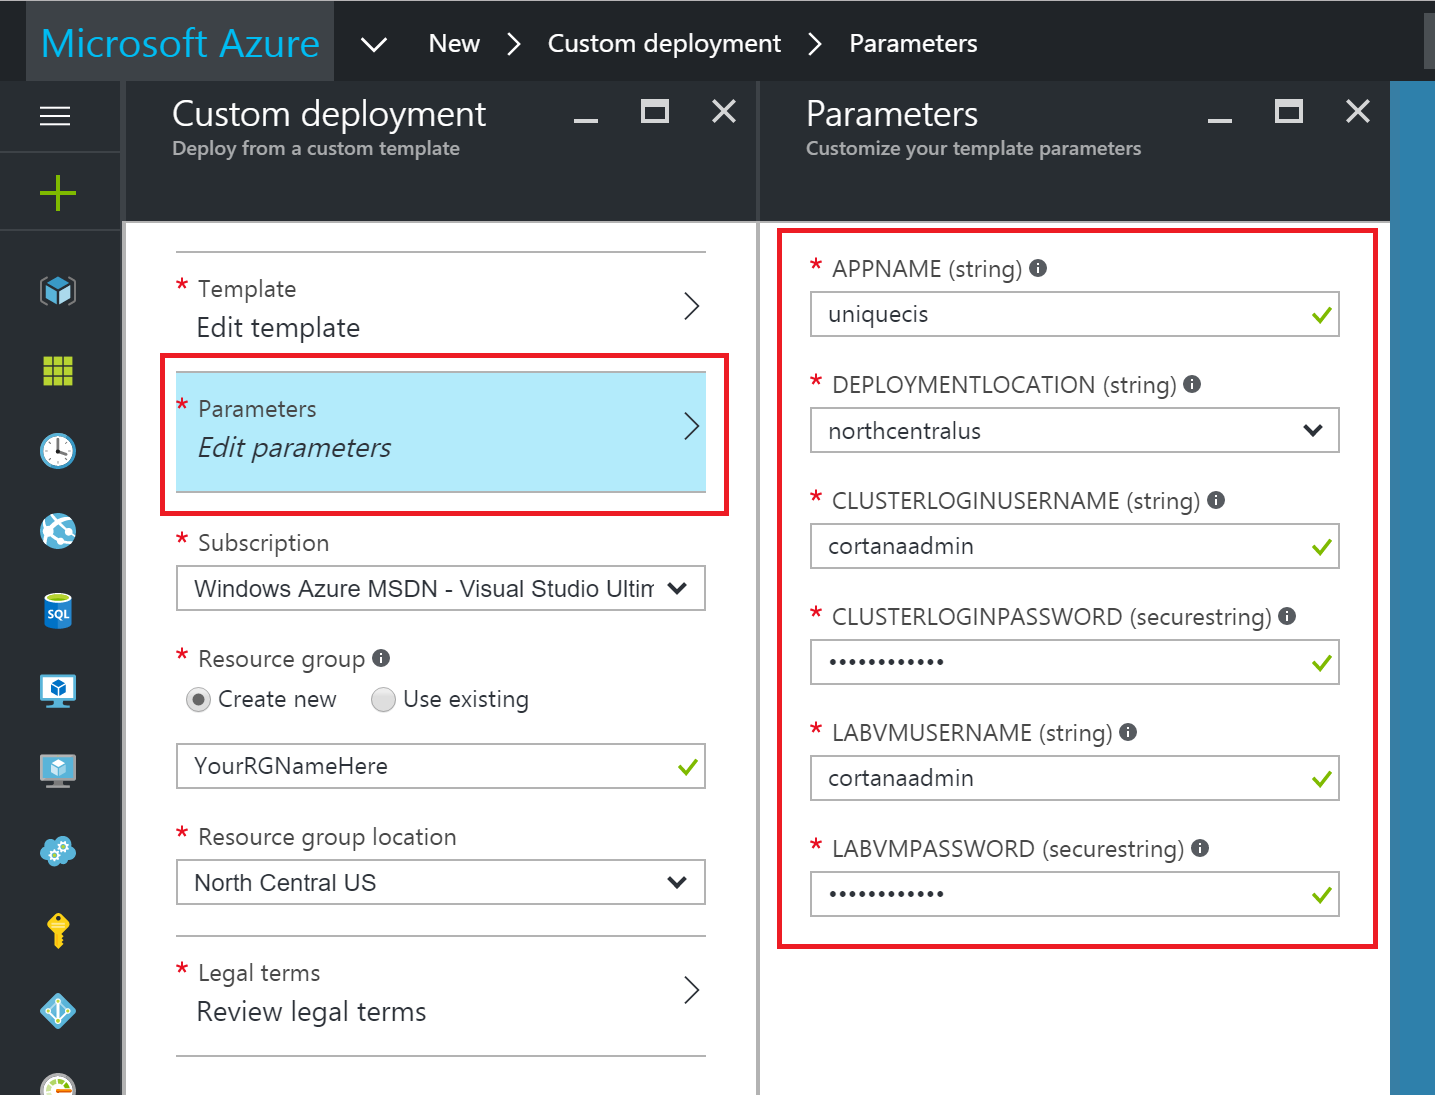
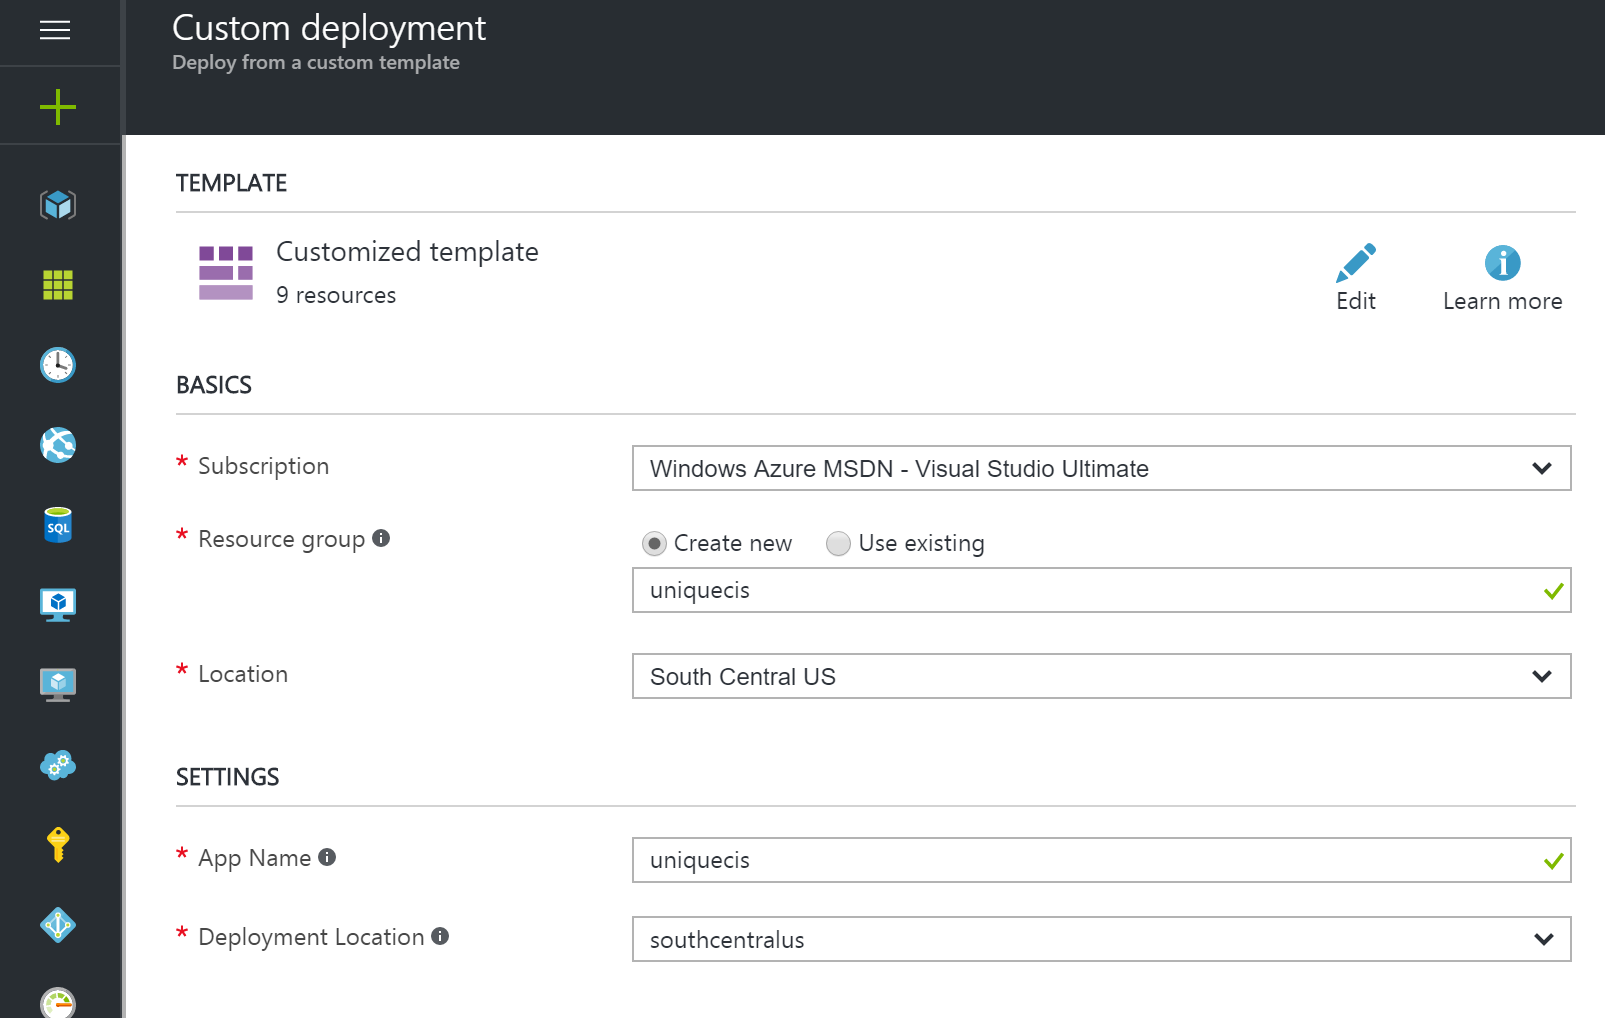
Updated README.

diff --git a/README.md b/README.md
@@ -15,7 +15,10 @@ All you need to do is click the "Deploy to Azure" button below and fill out the 
 
 When you click the "Deploy to Azure" button, you will be taken to the Azure portal and presented with a form for a new custom deployment (which uses the ARM template in this GitHub repo). You will be presented with a blade to provide some custom parameters as shown in the screenshot below.
 
-![alt text](/images/prereqparms.PNG "Azure Deployment GUI")
+![alt text](images/prereqparms.PNG "Azure Deployment GUI")
 
-* APPNAME - This should be a short (10 or fewer characters), but unique string that will be a prefix to all of the resources deployed. For example, if you type in *smithcis*, your Spark cluster will be called *smithcisspark* and your Lab VM will be called *smithcislab*.
-* DEPLOYMENTLOCATION - The default deployment location for the resources needed for the workshop. Note that this does NOT have to be the same as the location chosen for the Resource Group.
+* **Subscription** - Select the subscription you wish to use for the workshop.
+* **Resource Group** - Create a new resource group and give it a globally unique name.
+* **Location** - This is the location of your Resource Group. Resouces that are deployed inside this Resource Group do *not* have to be deployed to this same location.
+* **App Name** - This should be a short (10 or fewer characters), but unique string that will be a prefix to all of the resources deployed. For example, if you type in *smithcis*, your Spark cluster will be called *smithcisspark* and your Lab VM will be called *smithcislab*.
+* **Deployment Location** - The default deployment location for the resources needed for the workshop. This does *not* have to be the same as the location chosen for the Resource Group.
